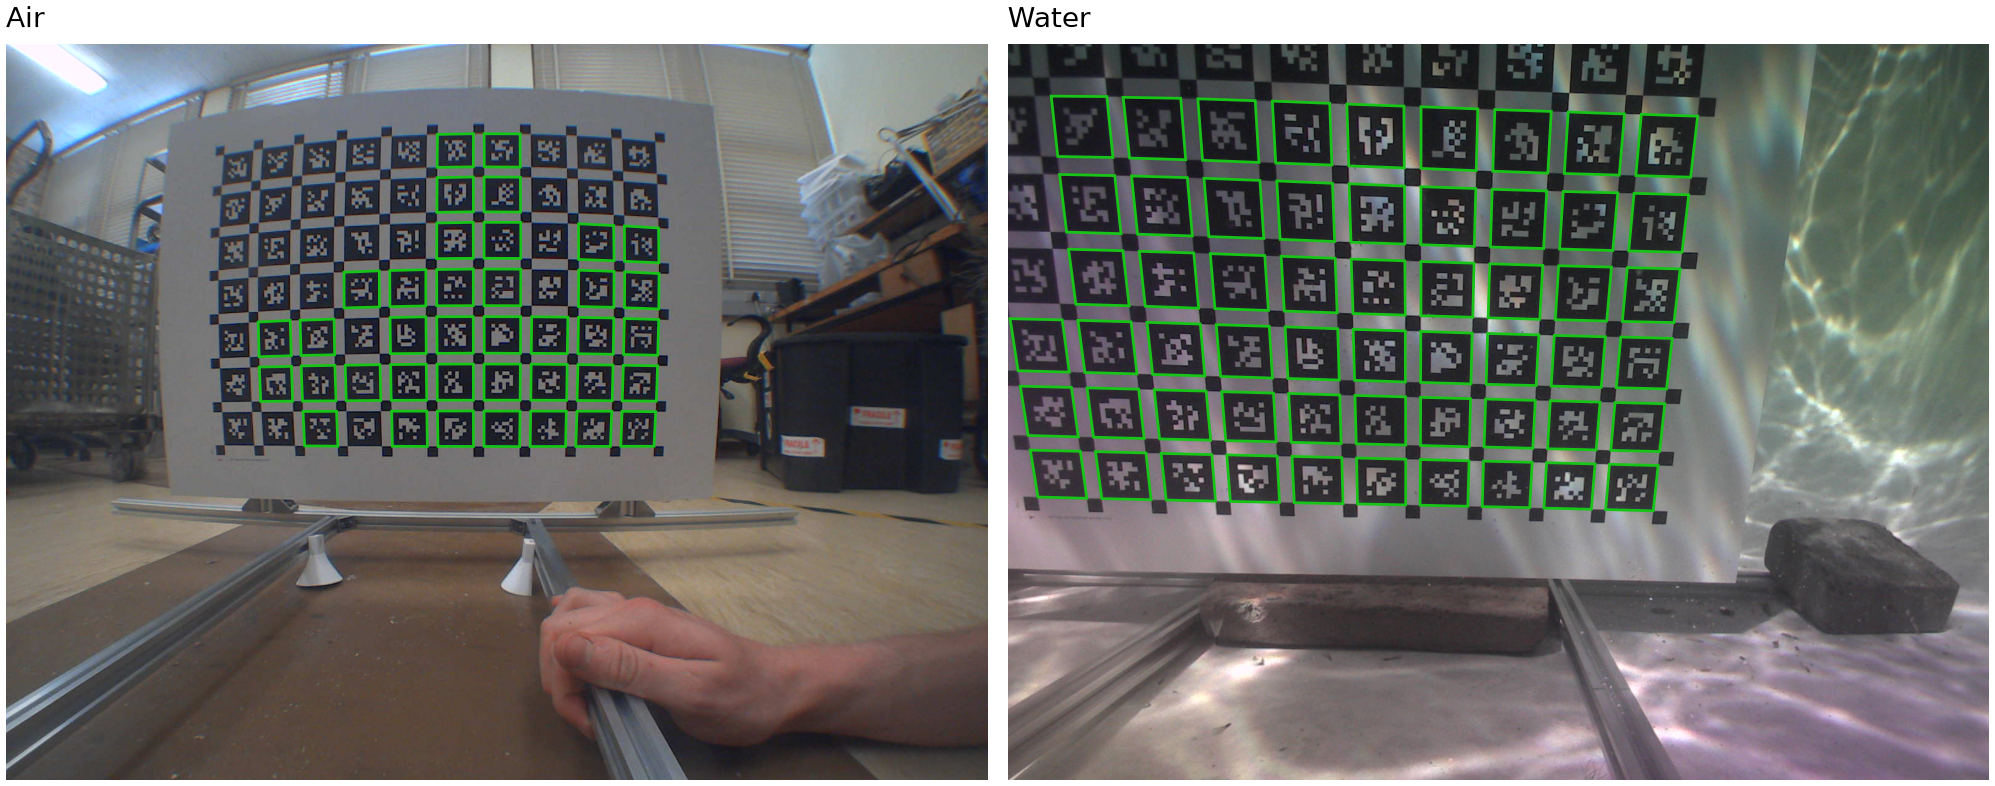
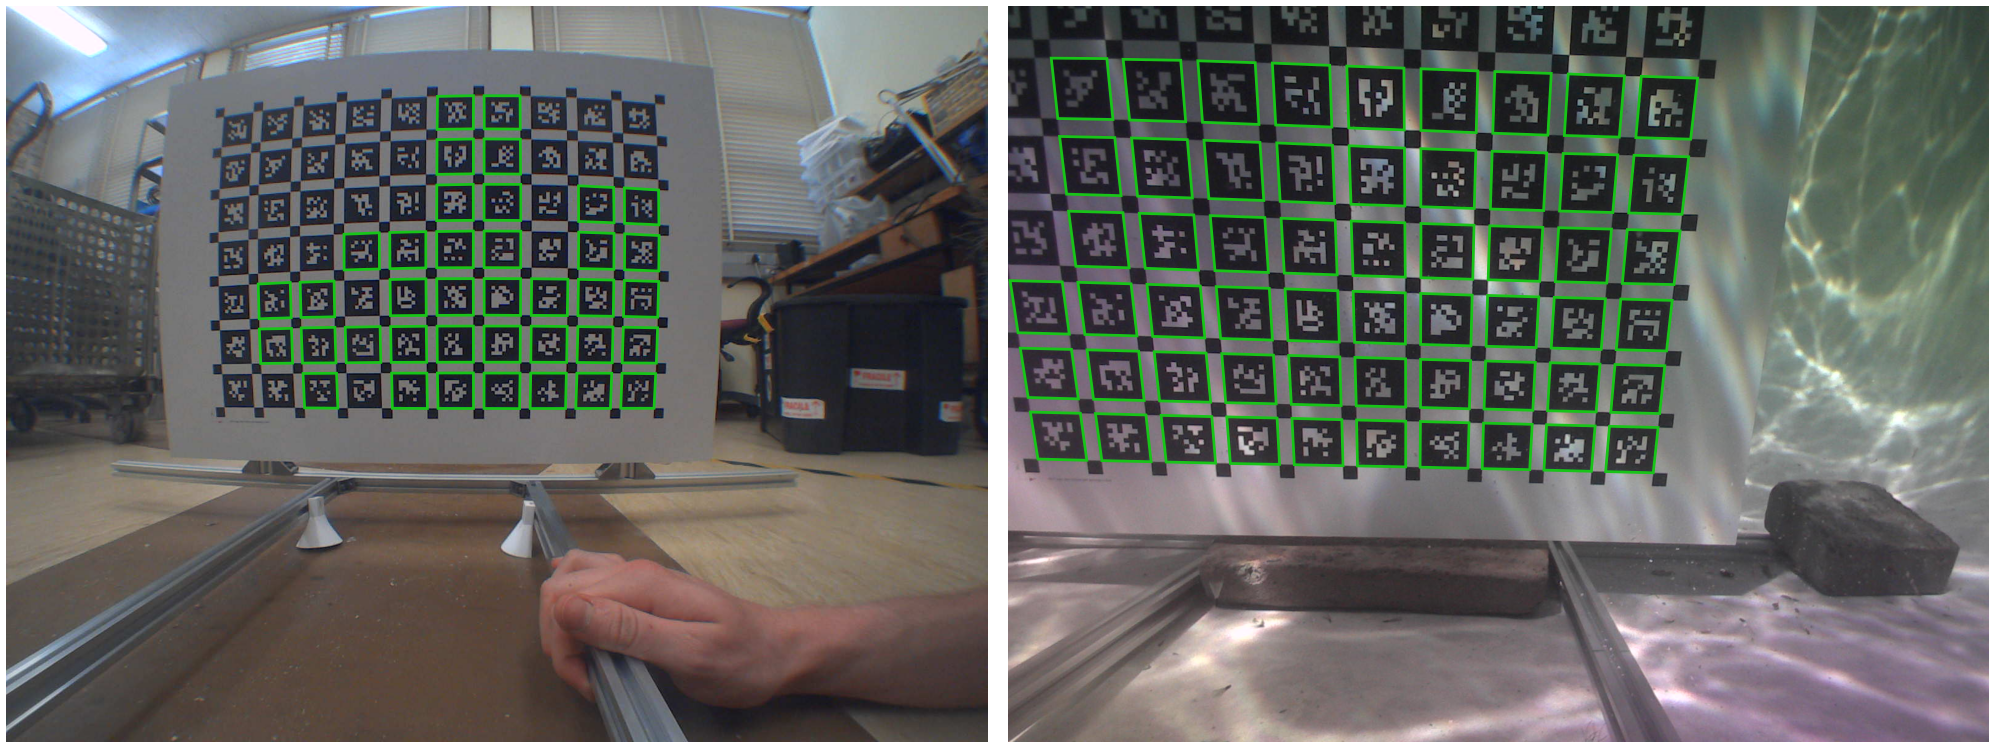
updated underwater fig

diff --git a/src/experiments/channels/plot_air_water_crops.py b/src/experiments/channels/plot_air_water_crops.py
@@ -1,8 +1,7 @@
 """Cropped examples of how underwater images differ from in-air ones, beyond magnification.
 
-Matched pairs (angle C1, right camera) at the same MEASURED distance: the distance labels of the two
-setups have a 10 cm offset (air label L sits where water label L+10 does), so pairs are chosen by the
-board distance solved from each image (see the 8 Oct distance check). Each crop covers the same block of
+Matched pairs (angle C1, right camera) at the same MEASURED distance, the board distance solved from each
+image (see the 8 Oct distance check). Since Water C1 was relabelled on 12 Oct, equal labels are matched pairs. Each crop covers the same block of
 board tags in both media, placed with the board pose (solvePnP on the saved detections, the run's own
 calibration), and both are shown at the same size so the magnification is taken out.
 
@@ -12,8 +11,8 @@ and board.
 Use (from the project root, after run_study.py; reproduce.py channels runs it):
     src/venv/bin/python src/experiments/channels/plot_air_water_crops.py
 Poses come from the study's gray runs. Writes <out_dir>/air_vs_water_crops/: one PNG per crop, fig_air_vs_water_crops.{pdf,png} and
-fig_single_tag_close_far.{pdf,png} (one tag and its border per matched image, real pixels; only Air and
-Water are labelled on it, the rest of its description is printed for the caption).
+fig_single_tag_close_far.{pdf,png} (one tag and its border per matched image, real pixels; Air left, Water
+right, nothing labelled on it: its description is printed for the caption).
 """
 import argparse
 import json
@@ -100,8 +99,6 @@ def single_tag_figure(study, out):
             s = CROP_HEIGHT / img.shape[0]
             ax = axes[row, col]
             ax.imshow(cv2.cvtColor(cv2.resize(img, None, fx=s, fy=s, interpolation=cv2.INTER_NEAREST), cv2.COLOR_BGR2RGB))
-            if row == 0:
-                ax.set_title(medium, loc="left", fontsize=10)
             caption.append(f"{medium}, {label} ({name}): board {dist:.1f} cm, crop {img.shape[1]} x {img.shape[0]} px "
                            f"in the original")
             ax.axis("off")

diff --git a/src/experiments/channels/plot_air_vs_water.py b/src/experiments/channels/plot_air_vs_water.py
@@ -1,7 +1,7 @@
 """One air frame beside one water frame, with the tags the study's detector found outlined.
 
-The figure shows only the frames, labelled Air and Water; the description is printed for the report's
-caption: the board's distance from the camera (solvePnP on the saved detections, with that medium's own
+The figure shows only the frames, unlabelled, in the order the config lists them (Air left, Water right);
+the description is printed for the report's caption: the board's distance from the camera (solvePnP on the saved detections, with that medium's own
 calibration), the camera's horizontal field of view from the same calibration, how many board tags were
 found and their mean side in pixels. Nothing is detected here: the tags are the ones the study's run saved
 in its corners file.
@@ -53,7 +53,6 @@ def panel(ax, study, medium, image, camera, channel):
     sides = [np.mean(np.linalg.norm(c - np.roll(c, 1, axis=0), axis=1)) for _, c in tags]
     for _, c in tags:
         ax.add_patch(Polygon(c, closed=True, fill=False, edgecolor=FOUND_COLOUR, linewidth=1.0))
-    ax.set_title(medium, loc="left", fontsize=10)
     ax.axis("off")
     return {"distance_cm": float(distance_cm), "hfov_deg": hfov, "tags": len(tags), "mean_side_px": float(np.mean(sides))}
 
